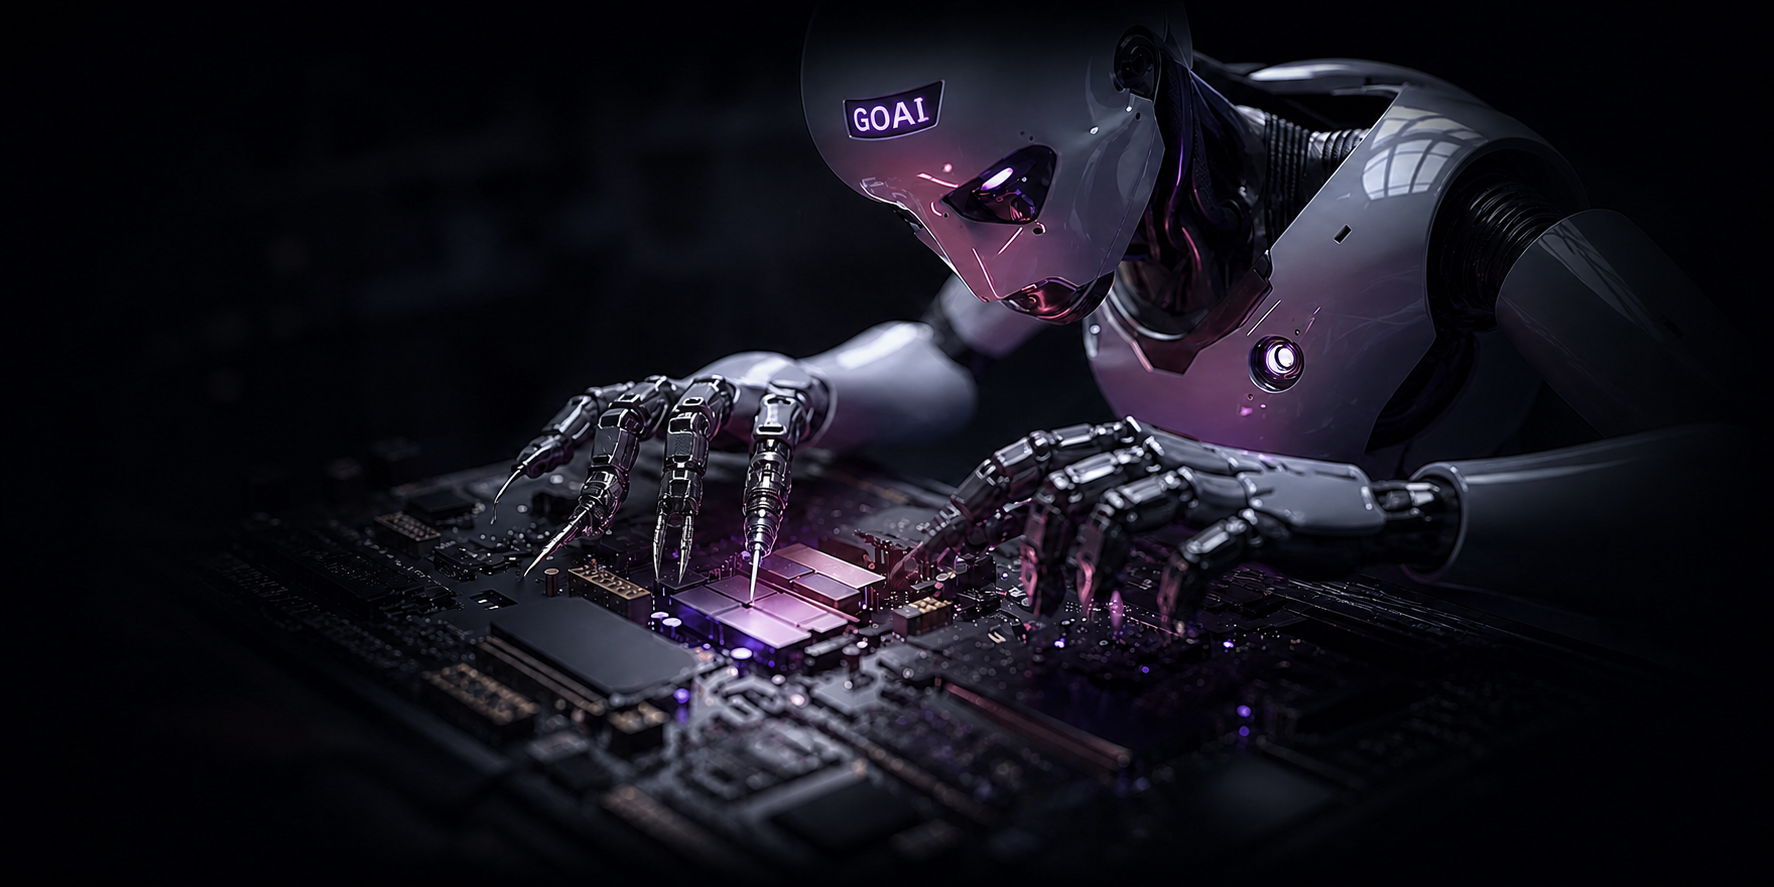
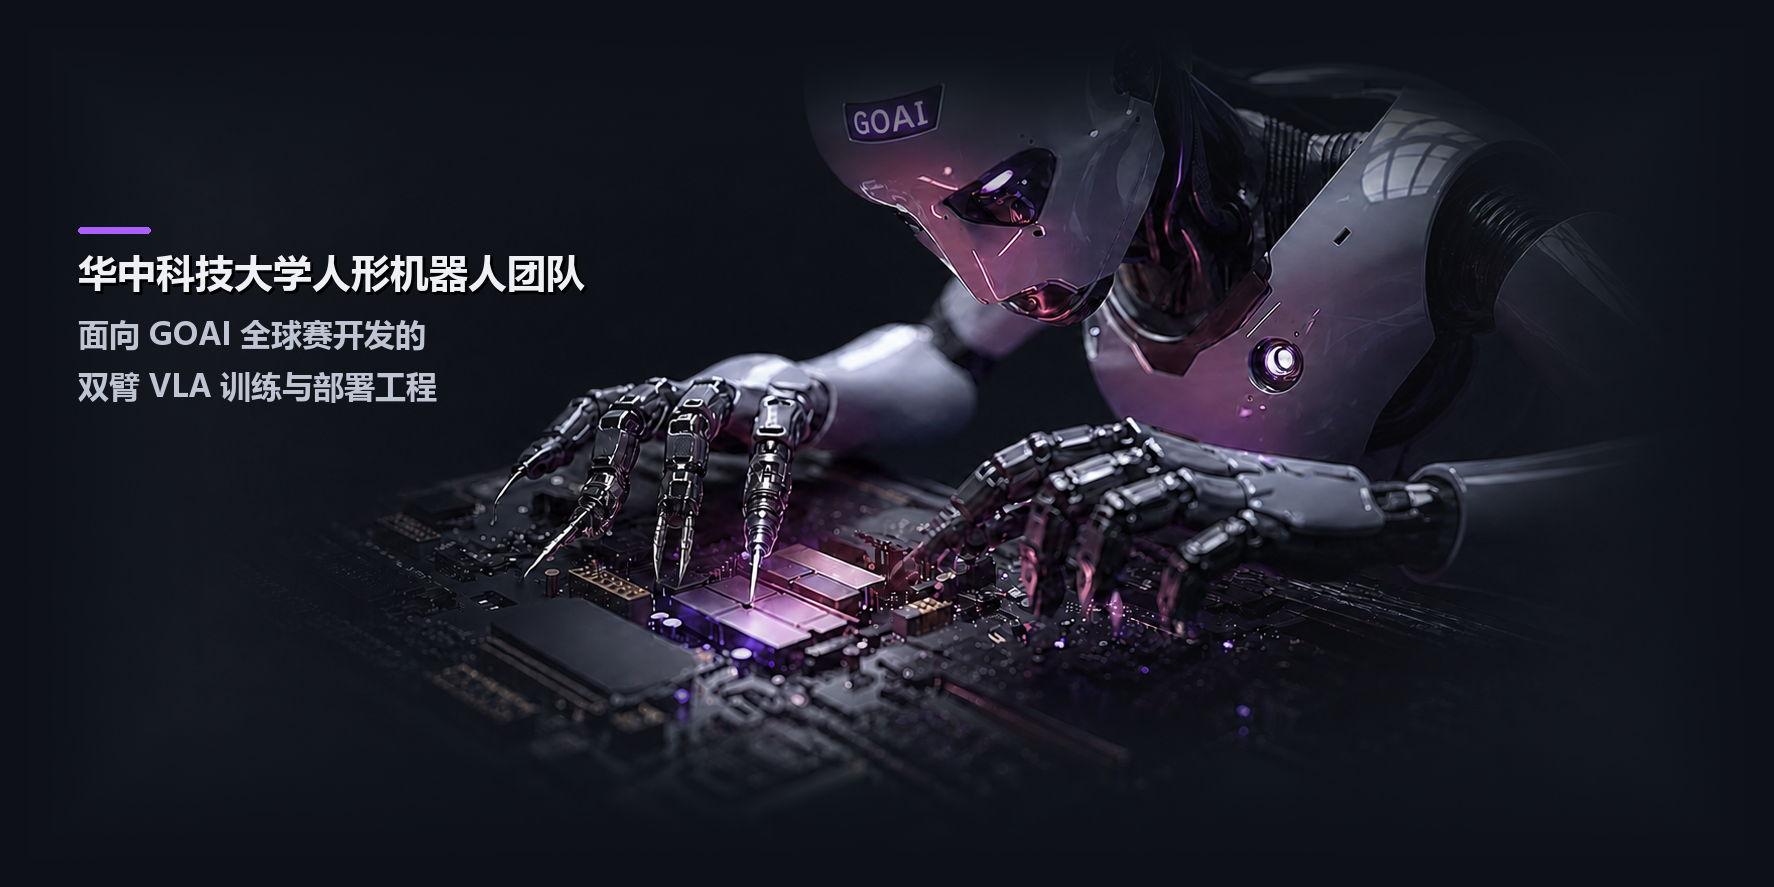
docs: blend hero with GitHub theme and add team caption

diff --git a/README.md b/README.md
@@ -2,8 +2,6 @@
 
 ![GOAI 2026 多任务双臂开源 VLA](assets/goai-dual-arm-hero.png)
 
-> 华中科技大学人形机器人及具身智能团队面向 GOAI 全球赛开发的双臂具身智能训练与部署工程，当前位列赛事前十名。
-
 本项目以 **LingBot-VLA 2.0** 为主体模型，目标是在 GOAI 2026 决赛六项真实机器人任务中，让双 PIPER X 具备视觉理解、语言指令理解、空间推理、未来状态预测与双臂协同操作能力。
 
 ## 1. 项目概览
